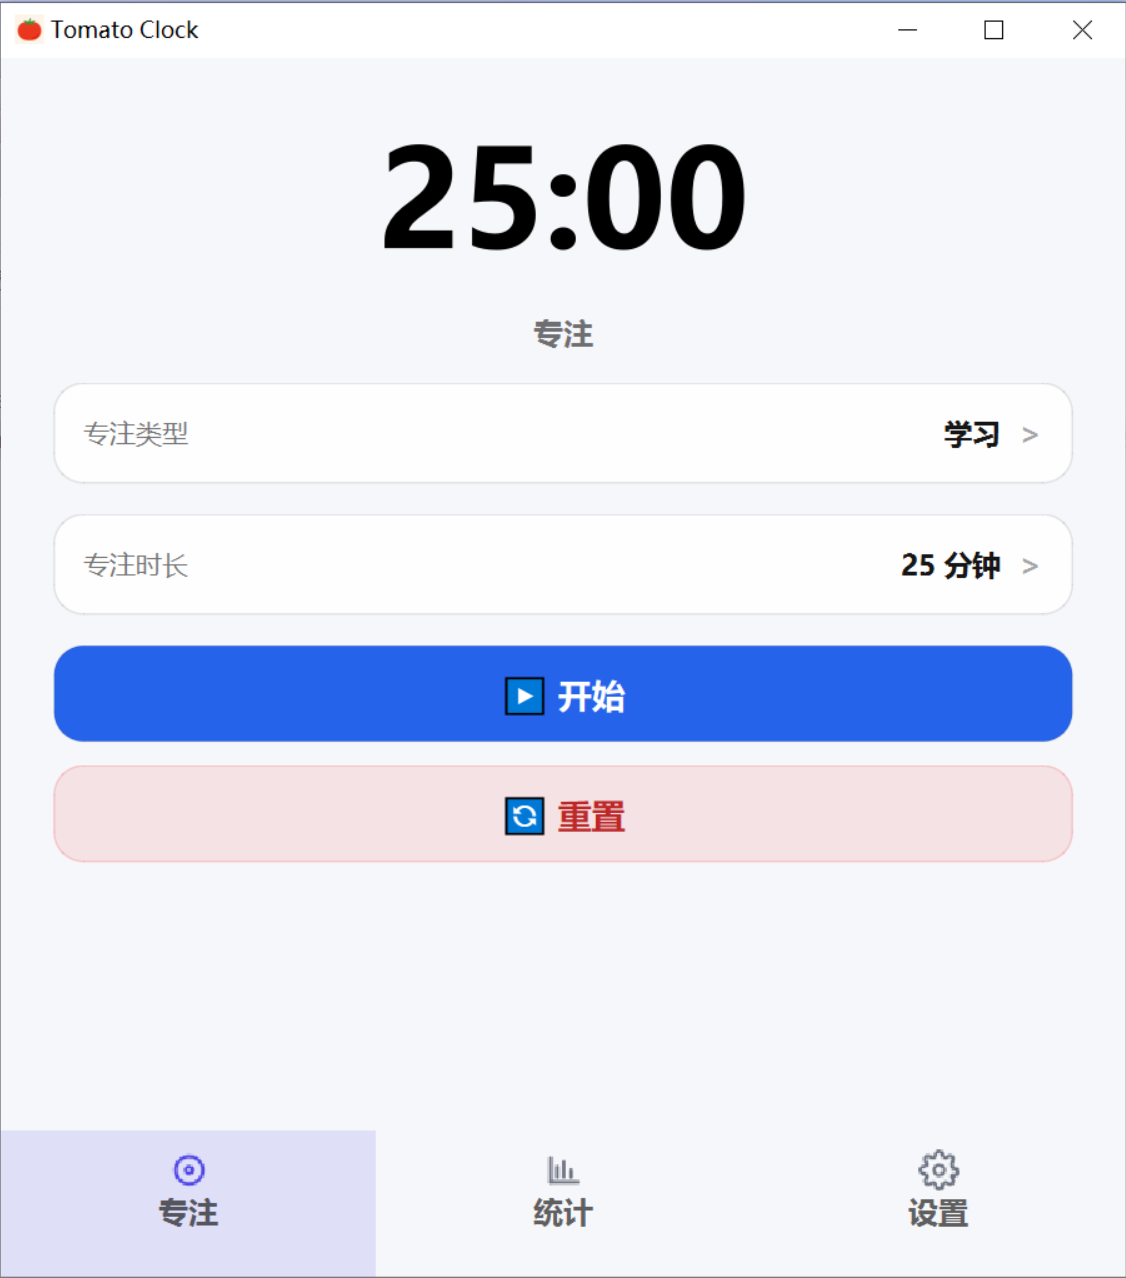
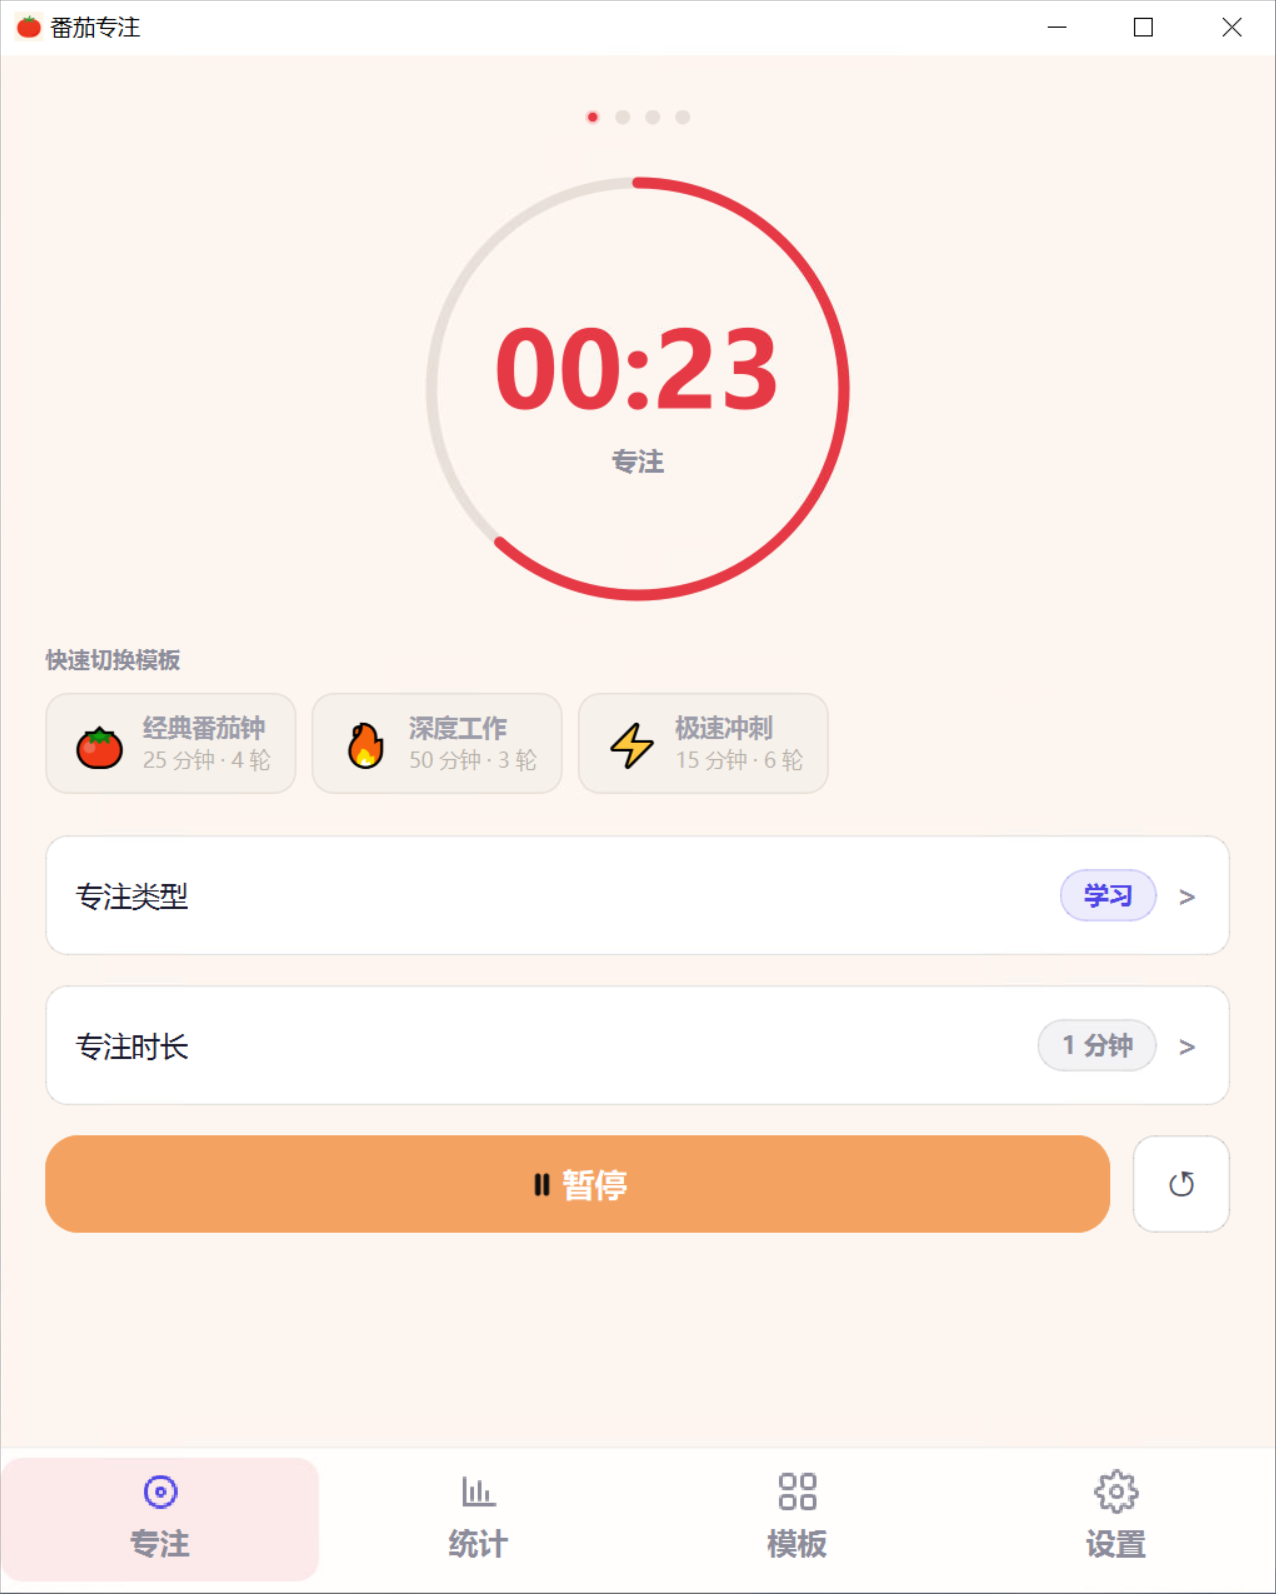
fix(windows通知): 修复Windows系统Toast通知不显示的问题
实现Windows原生Toast通知逻辑，为进程和安装快捷方式配置统一的AppUserModelID以适配Windows通知规则，升级项目版本至2.1.2，添加调试配置与排查文档，优化托盘通知流程优先使用原生通知，失败时回退至Qt托盘消息。

diff --git a/src/utils/windows_notification.py b/src/utils/windows_notification.py
@@ -1,0 +1,61 @@
+from __future__ import annotations
+
+import ctypes
+import html
+import shutil
+import subprocess
+import sys
+
+WINDOWS_APP_USER_MODEL_ID = "SublimeCT.TomatoClock"
+
+
+def configure_windows_app_id() -> None:
+    """为 Windows 进程设置稳定的 AppUserModelID。"""
+
+    if sys.platform != "win32":
+        return
+    try:
+        ctypes.windll.shell32.SetCurrentProcessExplicitAppUserModelID(WINDOWS_APP_USER_MODEL_ID)
+    except Exception:
+        return
+
+
+def show_windows_notification(title: str, message: str) -> bool:
+    """优先使用 Windows 原生 toast，失败时返回 False 交由上层兜底。"""
+
+    if sys.platform != "win32":
+        return False
+
+    powershell = shutil.which("powershell.exe") or shutil.which("pwsh.exe")
+    if not powershell:
+        return False
+
+    xml_title = html.escape(str(title), quote=False)
+    xml_message = html.escape(str(message), quote=False)
+    script = f"""
+Add-Type -AssemblyName System.Runtime.WindowsRuntime
+[Windows.UI.Notifications.ToastNotificationManager, Windows.UI.Notifications, ContentType = WindowsRuntime] > $null
+[Windows.Data.Xml.Dom.XmlDocument, Windows.Data.Xml.Dom.XmlDocument, ContentType = WindowsRuntime] > $null
+$xml = @'
+<toast>
+  <visual>
+    <binding template="ToastGeneric">
+      <text>{xml_title}</text>
+      <text>{xml_message}</text>
+    </binding>
+  </visual>
+</toast>
+'@
+$doc = New-Object Windows.Data.Xml.Dom.XmlDocument
+$doc.LoadXml($xml)
+$toast = [Windows.UI.Notifications.ToastNotification]::new($doc)
+$notifier = [Windows.UI.Notifications.ToastNotificationManager]::CreateToastNotifier('{WINDOWS_APP_USER_MODEL_ID}')
+$notifier.Show($toast)
+"""
+    result = subprocess.run(
+        [powershell, "-NoProfile", "-NonInteractive", "-ExecutionPolicy", "Bypass", "-Command", script],
+        check=False,
+        stdout=subprocess.DEVNULL,
+        stderr=subprocess.DEVNULL,
+    )
+    return result.returncode == 0

diff --git a/src/tray/tray_controller.py b/src/tray/tray_controller.py
@@ -11,6 +11,7 @@ from src.core.settings_store import SettingsStore
 from src.ui.main_window import MainWindow
 from src.ui.tray_popup import TrayPopup
 from src.utils.system_notification_fallback import show_linux_notification
+from src.utils.windows_notification import show_windows_notification
 if sys.platform == "darwin":
     from src.tray.macos_system_notification import MacSystemNotificationCenter
     from src.tray.macos_status_item import MacStatusItem
@@ -169,22 +170,19 @@ class TrayController:
         title = str(title)
         message = str(message)
         if sys.platform == "darwin" and self._mac_notification is not None:
-            # #region debug-point E:tray-path-macos
-            import json, urllib.request; _p='.dbg/system-notification-missing.env'; _u,_s='http://127.0.0.1:7777/event','system-notification-missing'; exec("try:\n with open(_p) as f: c=f.read(); _u=next((l.split('=',1)[1] for l in c.split('\\n') if l.startswith('DEBUG_SERVER_URL=')),_u); _s=next((l.split('=',1)[1] for l in c.split('\\n') if l.startswith('DEBUG_SESSION_ID=')),_s)\nexcept: pass"); exec("try:\n urllib.request.urlopen(urllib.request.Request(_u, data=json.dumps({'sessionId':_s,'runId':'post-fix','hypothesisId':'E','location':'tray_controller.py:171','msg':'[DEBUG] using mac native notification path','data':{'platform':sys.platform,'has_mac_notification':bool(self._mac_notification is not None)}}).encode(), headers={'Content-Type':'application/json'})).read()\nexcept: pass")
-            # #endregion
             self._mac_notification.show_message(title, message)
             return
 
-        if self._tray is not None and QSystemTrayIcon.supportsMessages():
-            # #region debug-point E:tray-path-qt
-            import json, urllib.request; _p='.dbg/system-notification-missing.env'; _u,_s='http://127.0.0.1:7777/event','system-notification-missing'; exec("try:\n with open(_p) as f: c=f.read(); _u=next((l.split('=',1)[1] for l in c.split('\\n') if l.startswith('DEBUG_SERVER_URL=')),_u); _s=next((l.split('=',1)[1] for l in c.split('\\n') if l.startswith('DEBUG_SESSION_ID=')),_s)\nexcept: pass"); exec("try:\n urllib.request.urlopen(urllib.request.Request(_u, data=json.dumps({'sessionId':_s,'runId':'post-fix','hypothesisId':'E','location':'tray_controller.py:177','msg':'[DEBUG] using qt tray notification path','data':{'platform':sys.platform,'supports_messages':bool(QSystemTrayIcon.supportsMessages())}}).encode(), headers={'Content-Type':'application/json'})).read()\nexcept: pass")
-            # #endregion
-            self._tray.showMessage(title, message, self._app_icon, 4500)
+        if sys.platform == "win32" and show_windows_notification(title, message):
             return
 
-        # #region debug-point E:tray-path-linux-fallback
-        import json, urllib.request; _p='.dbg/system-notification-missing.env'; _u,_s='http://127.0.0.1:7777/event','system-notification-missing'; exec("try:\n with open(_p) as f: c=f.read(); _u=next((l.split('=',1)[1] for l in c.split('\\n') if l.startswith('DEBUG_SERVER_URL=')),_u); _s=next((l.split('=',1)[1] for l in c.split('\\n') if l.startswith('DEBUG_SESSION_ID=')),_s)\nexcept: pass"); exec("try:\n urllib.request.urlopen(urllib.request.Request(_u, data=json.dumps({'sessionId':_s,'runId':'post-fix','hypothesisId':'E','location':'tray_controller.py:183','msg':'[DEBUG] using linux fallback notification path','data':{'platform':sys.platform}}).encode(), headers={'Content-Type':'application/json'})).read()\nexcept: pass")
-        # #endregion
+        if self._tray is not None and QSystemTrayIcon.supportsMessages():
+            if sys.platform == "win32":
+                self._tray.showMessage(title, message, QSystemTrayIcon.MessageIcon.Information, 4500)
+            else:
+                self._tray.showMessage(title, message, self._app_icon, 4500)
+            return
+
         show_linux_notification(title, message)
 
     def _make_tray_color_icon(self, icon: QIcon) -> QIcon:

diff --git a/src/main.py b/src/main.py
@@ -11,6 +11,7 @@ from src.core.settings_store import SettingsStore
 from src.tray.tray_controller import TrayController
 from src.ui.main_window import MainWindow
 from src.utils.icon_loader import load_app_icon
+from src.utils.windows_notification import configure_windows_app_id
 
 from src.assets import resources_rc as _resources_rc
 
@@ -26,6 +27,7 @@ if __name__ == "__main__":
     app.setOrganizationDomain(app_metadata.organization_domain)
     app.setDesktopFileName(app_metadata.desktop_file_name)
     app.setQuitOnLastWindowClosed(False)
+    configure_windows_app_id()
 
     app_icon = load_app_icon("app-icon-44.png")
     app.setWindowIcon(app_icon)

diff --git a/debug-windows-notification-missing.md b/debug-windows-notification-missing.md
@@ -1,0 +1,33 @@
+# [OPEN] Debug Session: windows-notification-missing
+
+## 问题摘要
+- 现象：Windows 上倒计时结束后没有显示系统通知弹窗。
+- 目标：定位通知链路在 Windows 平台失败的具体环节，并在拿到运行时证据后实施最小修复。
+
+## 当前假设
+- H1：倒计时结束事件没有走到 `_show_system_notification()`。
+- H2：Windows 平台进入了 `_show_system_notification()`，但 `QSystemTrayIcon` 实例为空或不可见。
+- H3：`QSystemTrayIcon.supportsMessages()` 在当前运行环境返回了 `False`，导致通知没有真正发送。
+- H4：通知已经调用了 `showMessage()`，但托盘初始化状态或图标/宿主窗口关系异常，导致系统未展示。
+- H5：Windows 需要单独兜底系统通知实现，当前只依赖 Qt 托盘通知不够稳定。
+
+## 调试计划
+1. 阅读调试规范并确认日志采集方案。
+2. 启动 Debug Server。
+3. 仅为通知链路添加最小插桩，不修改业务逻辑。
+4. 复现并收集日志。
+5. 基于证据判断根因，再实施最小修复。
+
+## 当前证据
+- Qt 官方文档明确说明：`QSystemTrayIcon.showMessage()` 的显示依赖系统配置和用户偏好，消息“可能完全不出现”，不应作为关键通知的唯一通道。
+- Windows 官方桌面 toast 文档要求非打包桌面应用使用稳定的 `AppUserModelID`，并将该 ID 关联到开始菜单快捷方式，才能走正式通知链路。
+- 当前项目原先在 Windows 上仅依赖 `QSystemTrayIcon.showMessage()`，没有设置进程级 `AppUserModelID`，安装器快捷方式也没有声明 `AppUserModelID`。
+
+## 当前修复
+- 新增 Windows 原生 toast 发送逻辑，优先使用系统 toast。
+- 应用启动时为 Windows 进程设置稳定 `AppUserModelID`。
+- Windows 安装器生成的开始菜单 / 桌面快捷方式带上相同的 `AppUserModelID`。
+- 若原生 toast 发送失败，则退回 Qt 托盘消息，避免开发态完全无通知。
+
+## 待验证
+- 需要在 Windows 安装包环境下复现一次倒计时结束，确认系统 toast 正常显示。